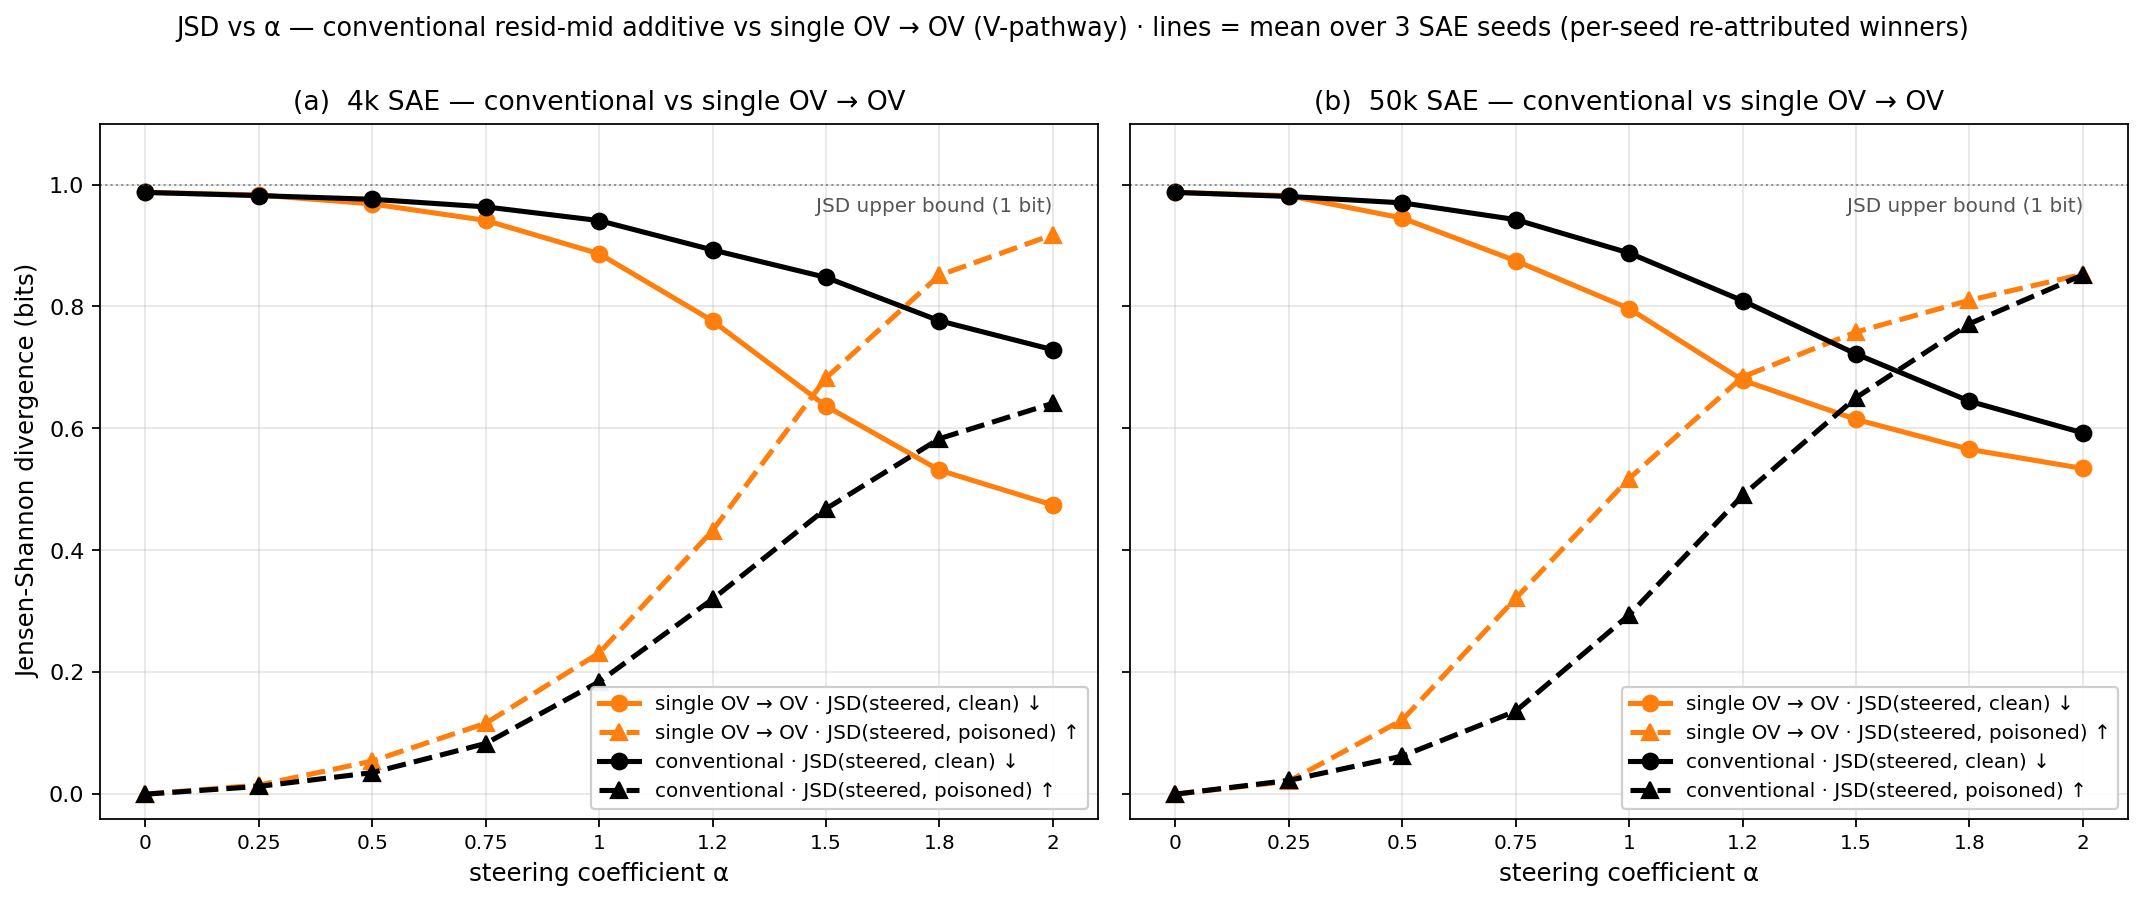
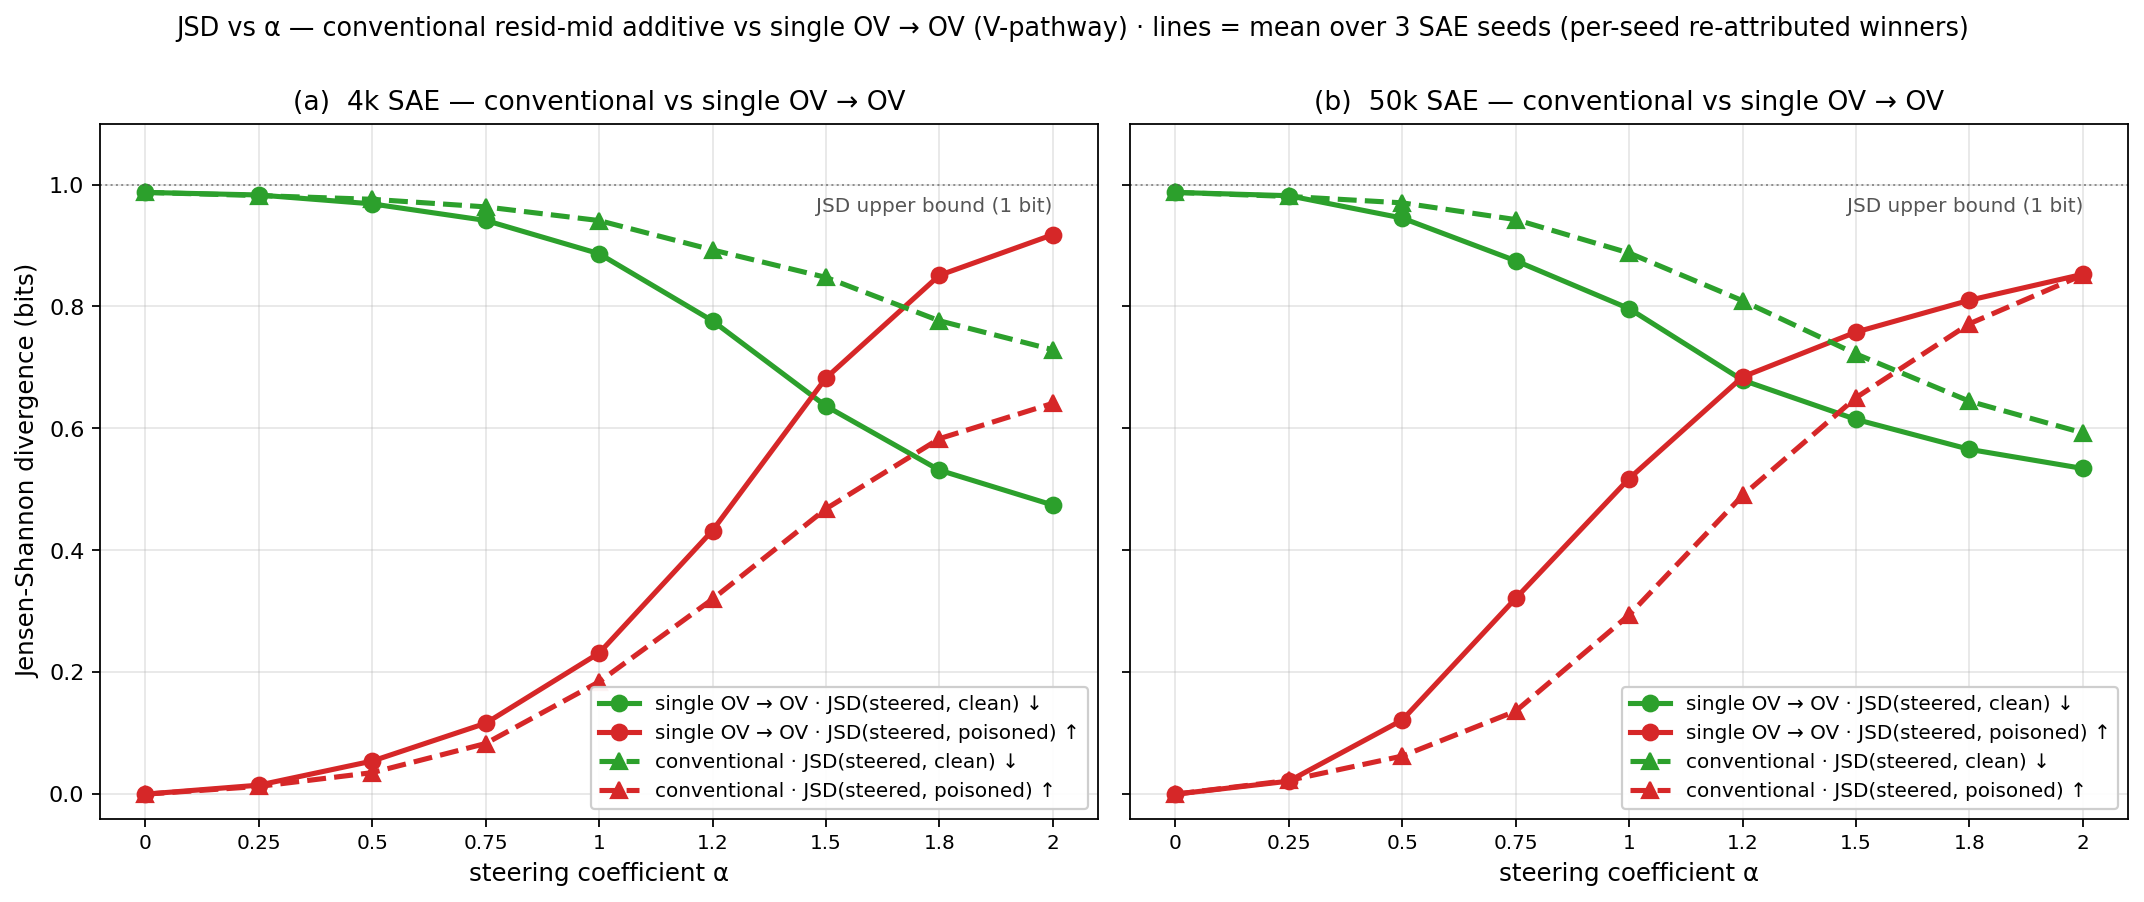
plot_jsd_overlay: revert palette to red/green for sleeper plots
Sleeper figures keep red/green to make the sleeper/clean axis legible at a
glance. Method distinguished by linestyle/marker (solid+circle = OV→OV,
dashed+triangle = conventional). The orange/black palette is reserved for
non-sleeper figures (e.g. QK/QK vs QK→OV vs OV→OV vs conventional comparisons).

diff --git a/ketan_repl/scripts/plot_jsd_overlay.py b/ketan_repl/scripts/plot_jsd_overlay.py
@@ -3,14 +3,15 @@
 Reads the same per-seed re-attributed sweep JSON used for the 2x2 plot, but
 draws conventional + OV-single overlaid in each panel (means only, no bands).
 
-Color scheme (paper-consistent):
-  orange   — OV → OV
-  black    — conventional resid-mid additive
-  (green and blue reserved for QK/QK and QK→OV in other figures)
+Color scheme (sleeper plots):
+  green = JSD(steered, clean)     — distance from clean (lower = better)
+  red   = JSD(steered, poisoned)  — distance from sleeper (higher = better)
+  (red/green reserved for sleeper-specific clean-vs-poisoned semantics; the
+   orange OV→OV / black conventional palette is used in non-sleeper figures.)
 
 Linestyle / marker:
-  solid  + ●   JSD(steered, clean)     — lower = better (closer to clean)
-  dashed + ▲   JSD(steered, poisoned)  — higher = better (further from sleeper)
+  solid + ●   single OV → OV
+  dashed + ▲   conventional resid-mid additive
 
 Layout:
   left  — 4k SAE
@@ -47,11 +48,9 @@ def main() -> None:
 
     fig, axes = plt.subplots(1, 2, figsize=(13.5, 5.6), sharey=True)
 
-    # Paper-consistent color scheme:
-    #   orange = OV→OV, black = conventional
-    #   (green = QK/QK, blue = QK→OV — reserved for other figures)
-    OV_C   = "#ff7f0e"
-    CONV_C = "#000000"
+    # Sleeper-plot palette: red/green encodes clean-vs-poisoned semantics.
+    GREEN = "#2ca02c"   # JSD(s, clean)     ↓ better — distance from clean
+    RED   = "#d62728"   # JSD(s, poisoned)  ↑ better — distance from sleeper
 
     panel_setup = [
         (axes[0], "4k SAE",  "ov_single_4k",  "conventional_4k",
@@ -61,19 +60,19 @@ def main() -> None:
     ]
 
     for ax, sae_label, ov_key, conv_key, title in panel_setup:
-        for key, name, color in [
-            (ov_key,   "single OV → OV",     OV_C),
-            (conv_key, "conventional",       CONV_C),
+        for key, name, linestyle, marker in [
+            (ov_key,   "single OV → OV",  "-",  "o"),
+            (conv_key, "conventional",    "--", "^"),
         ]:
             entry = cfg[key]
             per_alpha = entry.get("per_alpha") or entry.get("results")
             jc = [reduce_mean(per_alpha[str(a)]["jsd_clean"]) for a in alphas]
             jp = [reduce_mean(per_alpha[str(a)]["jsd_pois"])  for a in alphas]
-            ax.plot(alphas, jc, color=color, lw=2.3, marker="o", markersize=7,
-                    linestyle="-",
+            ax.plot(alphas, jc, color=GREEN, lw=2.3, marker=marker, markersize=7,
+                    linestyle=linestyle,
                     label=f"{name} · JSD(steered, clean) ↓")
-            ax.plot(alphas, jp, color=color, lw=2.3, marker="^", markersize=7,
-                    linestyle="--",
+            ax.plot(alphas, jp, color=RED, lw=2.3, marker=marker, markersize=7,
+                    linestyle=linestyle,
                     label=f"{name} · JSD(steered, poisoned) ↑")
 
         ax.axhline(1.0, color="#555", linestyle=":", lw=0.9, alpha=0.6)
